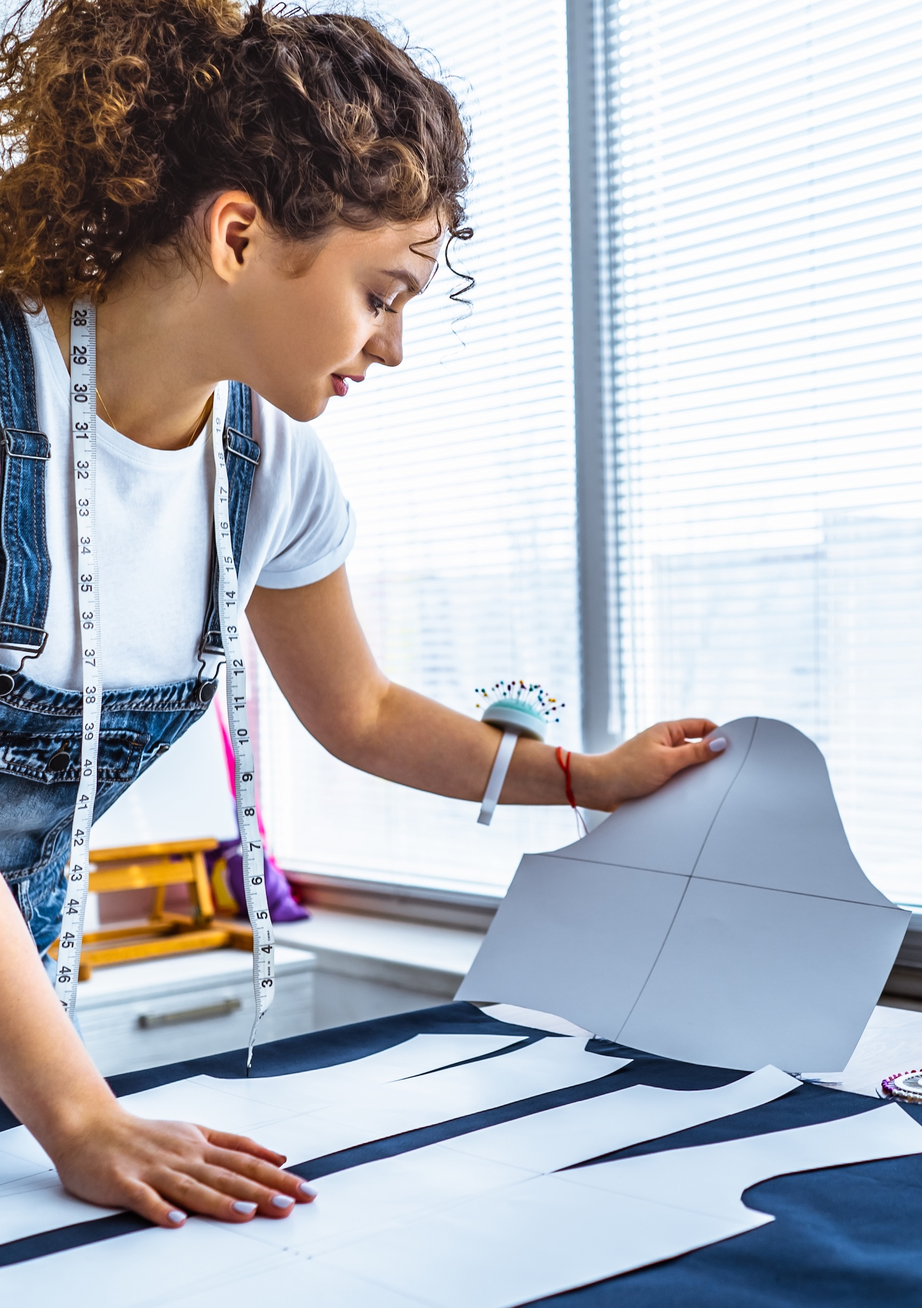
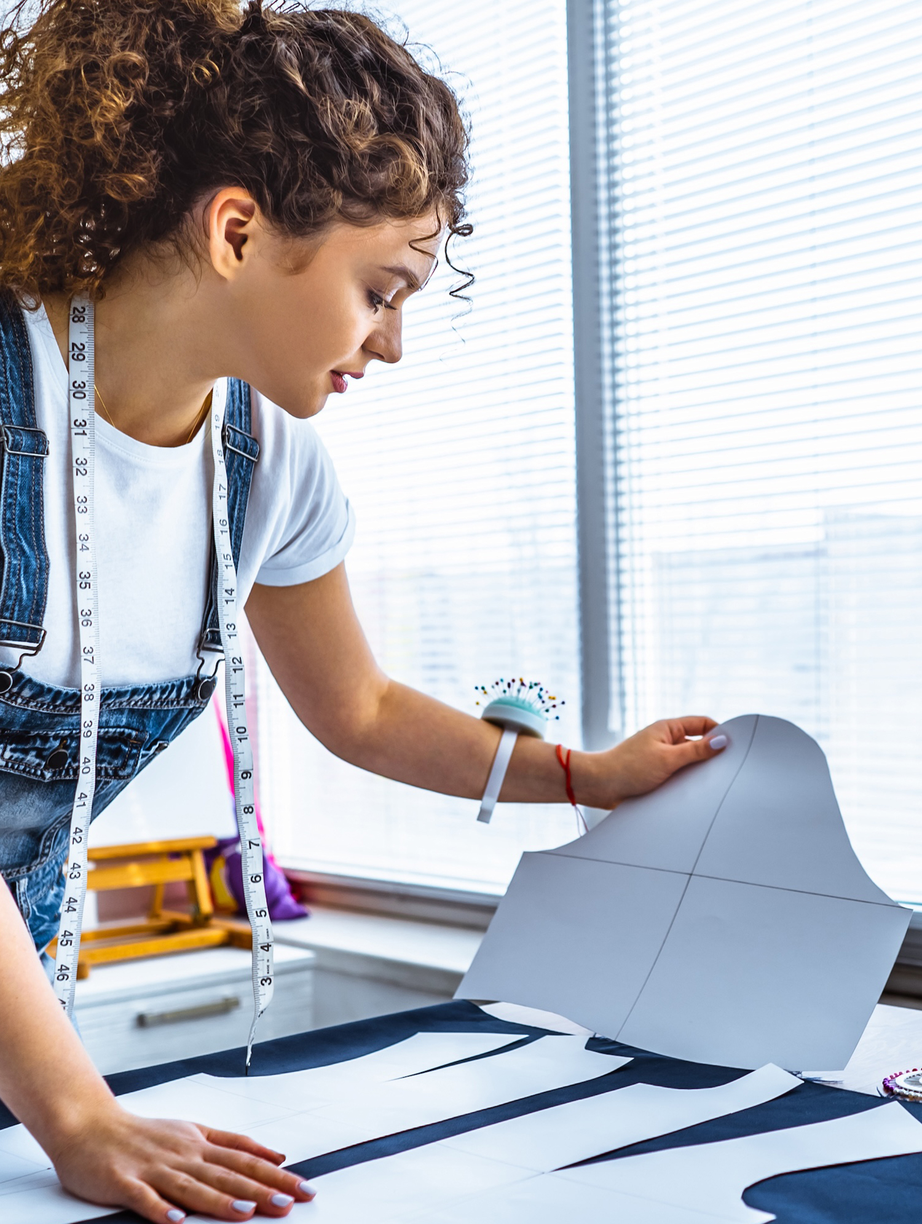
[FIX] IMG Portada

diff --git a/index.html b/index.html
@@ -30,7 +30,7 @@
                 <div class="puntos puntos-top"></div>
               </div>
               <div class="col p-0">
-                <img class="mt-xl-5" alt="logo Sena" src="./assets/img.jpg" />
+                <img style="max-height: 650px;width: 80%;object-fit: cover;" alt="logo Sena" src="./assets/img.jpg" />
 
                 <div class="header__logo">
                   <img alt="logo Sena" src="./assets/logo-sena.svg" />
